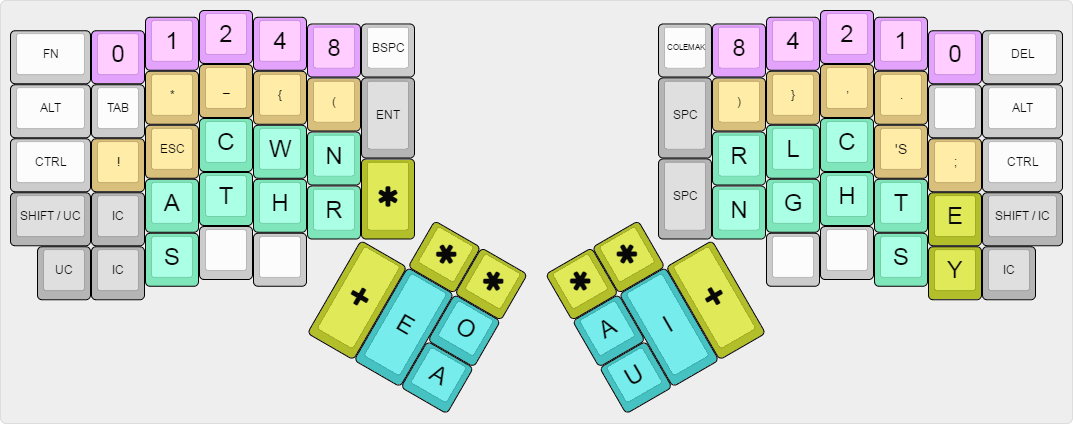
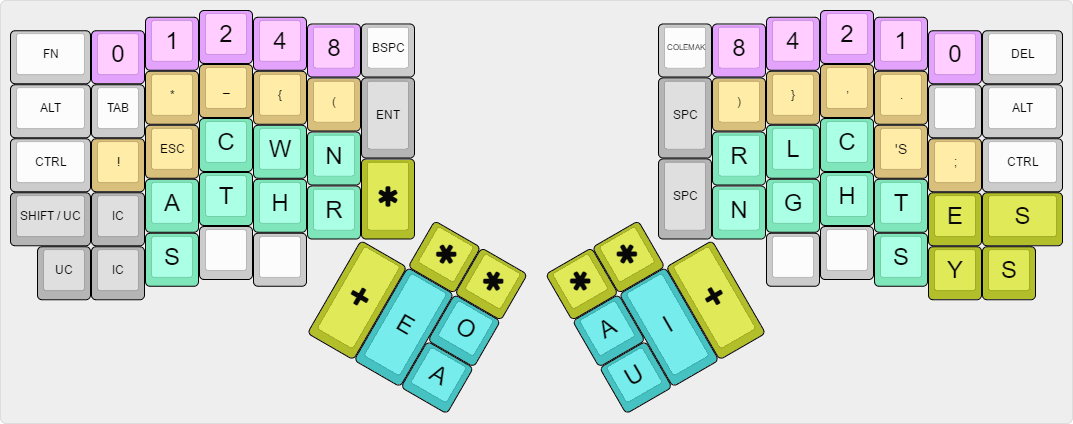
New right pinky cluster with a S key

diff --git a/keyboard/ergodox_ez/keymaps/fromtonrouge/keymap.c b/keyboard/ergodox_ez/keymaps/fromtonrouge/keymap.c
@@ -89,19 +89,20 @@ enum key_family
 #define R_T (6 | (FAMILY_RIGHT_HAND << 4) | STENO_BIT)
 #define R_S (7 | (FAMILY_RIGHT_HAND << 4) | STENO_BIT)
 
-// 2 bits for E and Y
+// 3 bits for E and Y and S
 #define OFFSET_RIGHT_PINKY 23
 #define RP_E  (0 | (FAMILY_RIGHT_PINKY << 4) | STENO_BIT)
 #define RP_Y  (1 | (FAMILY_RIGHT_PINKY << 4) | STENO_BIT)
+#define RP_S  (2 | (FAMILY_RIGHT_PINKY << 4) | STENO_BIT)
 
 // 3 bits for space control keys
-#define OFFSET_SPACE_CONTROLS 25
+#define OFFSET_SPACE_CONTROLS 26
 #define S_SPC  (0 | (FAMILY_SPACES << 4) | STENO_BIT)
 #define S_TAB  (1 | (FAMILY_SPACES << 4) | STENO_BIT)
 #define S_ENT  (2 | (FAMILY_SPACES << 4) | STENO_BIT)
 
 // 2 bits for case control keys (upper case, initial case)
-#define OFFSET_CASE_CONTROLS 28
+#define OFFSET_CASE_CONTROLS 29
 #define C_UC   (0 | (FAMILY_CASE_CONTROLS << 4) | STENO_BIT)
 #define C_IC  (1 | (FAMILY_CASE_CONTROLS << 4) | STENO_BIT)
 
@@ -296,8 +297,8 @@ KEYMAP(
                             0,     NR_B3,      NR_B2,      NR_B1,      NR_B0,      NR_N0,      0,
                             S_SPC, USRR_5,     USRR_4,     USRR_3,     USRR_2,     0,          0,
                                    R_R,        R_L,        R_C,        USRR_1,     USRR_0,     0, 
-                            S_SPC, R_N,        R_G,        R_H,        R_T,        RP_E,       C_IC,
-                                               0,          0,          R_S,        RP_Y,       C_IC,
+                            S_SPC, R_N,        R_G,        R_H,        R_T,        RP_E,       RP_S,
+                                               0,          0,          R_S,        RP_Y,       RP_S,
                 SC_STAR,    SC_STAR,
                 T_A,
                 T_U,        T_I,       SC_PLUS 

diff --git a/keyboard/ergodox_ez/keymaps/fromtonrouge/lookup_tables/shelton_tables.h b/keyboard/ergodox_ez/keymaps/fromtonrouge/lookup_tables/shelton_tables.h
@@ -598,12 +598,16 @@ const uint8_t PROGMEM g_right_hand_table[256][MAX_LETTERS] =
     NO_ENTRY                                // [255]
 };
 
-const uint8_t PROGMEM g_right_pinky_table[4][MAX_LETTERS] =
+const uint8_t PROGMEM g_right_pinky_table[8][MAX_LETTERS] =
 {
     NO_ENTRY,                               // [0]
-    _1(KC_E),                               // [1]
-    _1(KC_Y),                               // [2]
-    _2(KC_E, KC_Y)                          // [3]
+    _1(_E),                                 // [1]
+    _1(_Y),                                 // [2]
+    _2(_E, _Y),                             // [3]
+    _1(_S),                                 // [4]
+    _2(_E, _S),                             // [5]
+    _2(_Y, _S),                             // [6]
+    _3(_E, _Y, _S)                          // [7]
 };
 
 #endif

diff --git a/keyboard/ergodox_ez/keymaps/fromtonrouge/readme.md b/keyboard/ergodox_ez/keymaps/fromtonrouge/readme.md
@@ -30,7 +30,7 @@ Numbers are binary numbers : you can stroke 2 numbers at the same time (from 0 t
 
 Home position :    
     
-![Programmer Steno Home Position](programmer-steno-home-annotations.png)
+![Programmer Steno Home Position](programmer-steno-home.png)
 
 ### Lookup table for the left hand (Shelton table)
 
@@ -457,11 +457,15 @@ Home position :
     Z               =       L|H                 [36]
     ZES             =       L|H|S               [164]
 
-### Lookup table for right E and Y
+### Lookup table for right pinky
 
     E               =       E                   [1]
+    ES              =       E|S                 [5]
     EY              =       E|Y                 [3]
+    EYS             =       E|Y|S               [7]
+    S               =       S                   [4]
     Y               =       Y                   [2]
+    YS              =       Y|S                 [6]
 
 ### Lookup table for left punctuations
 
